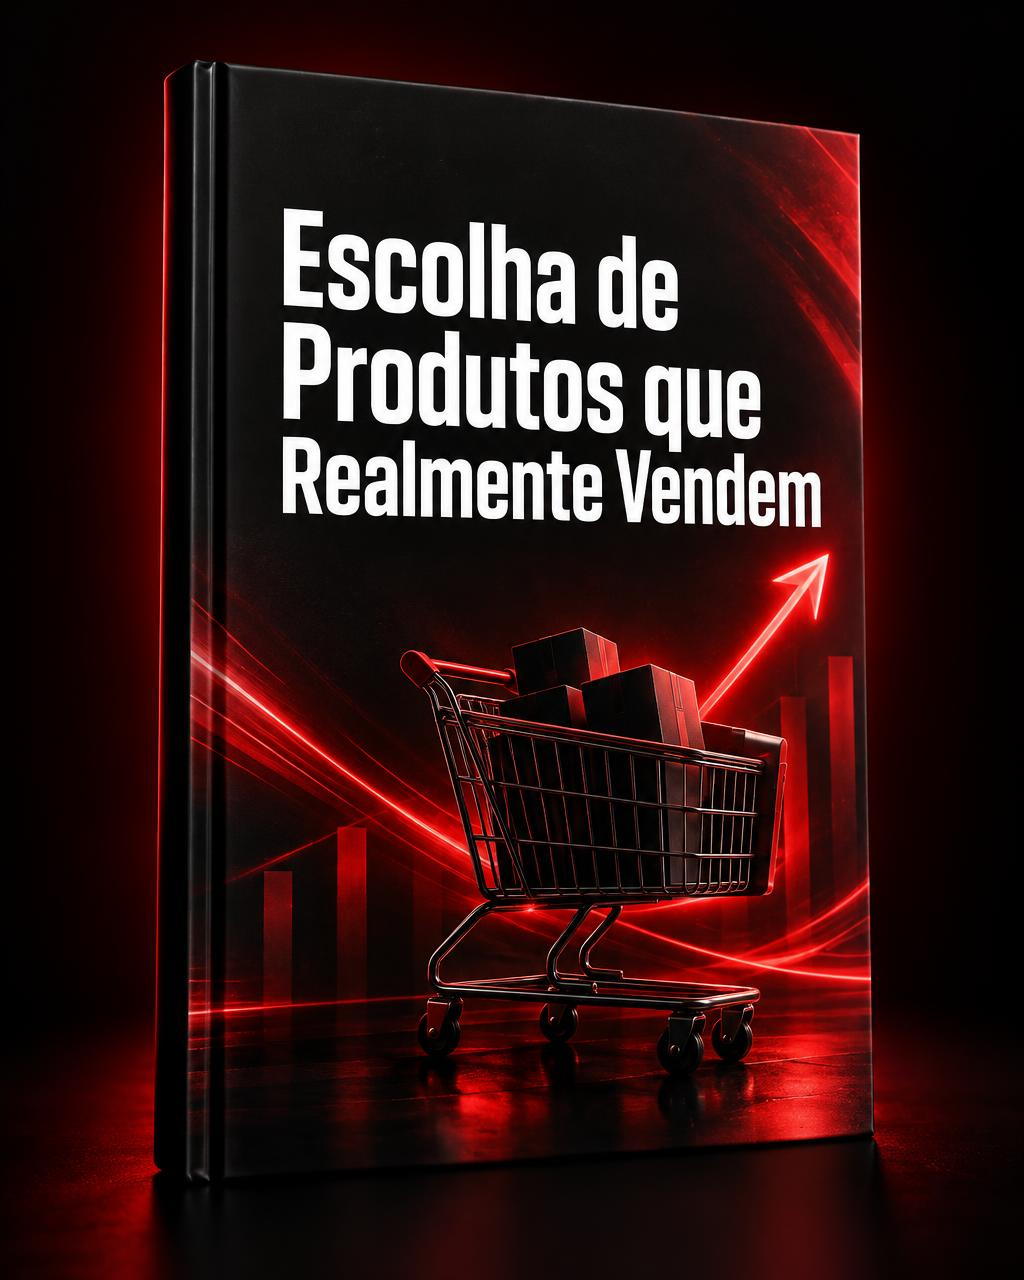
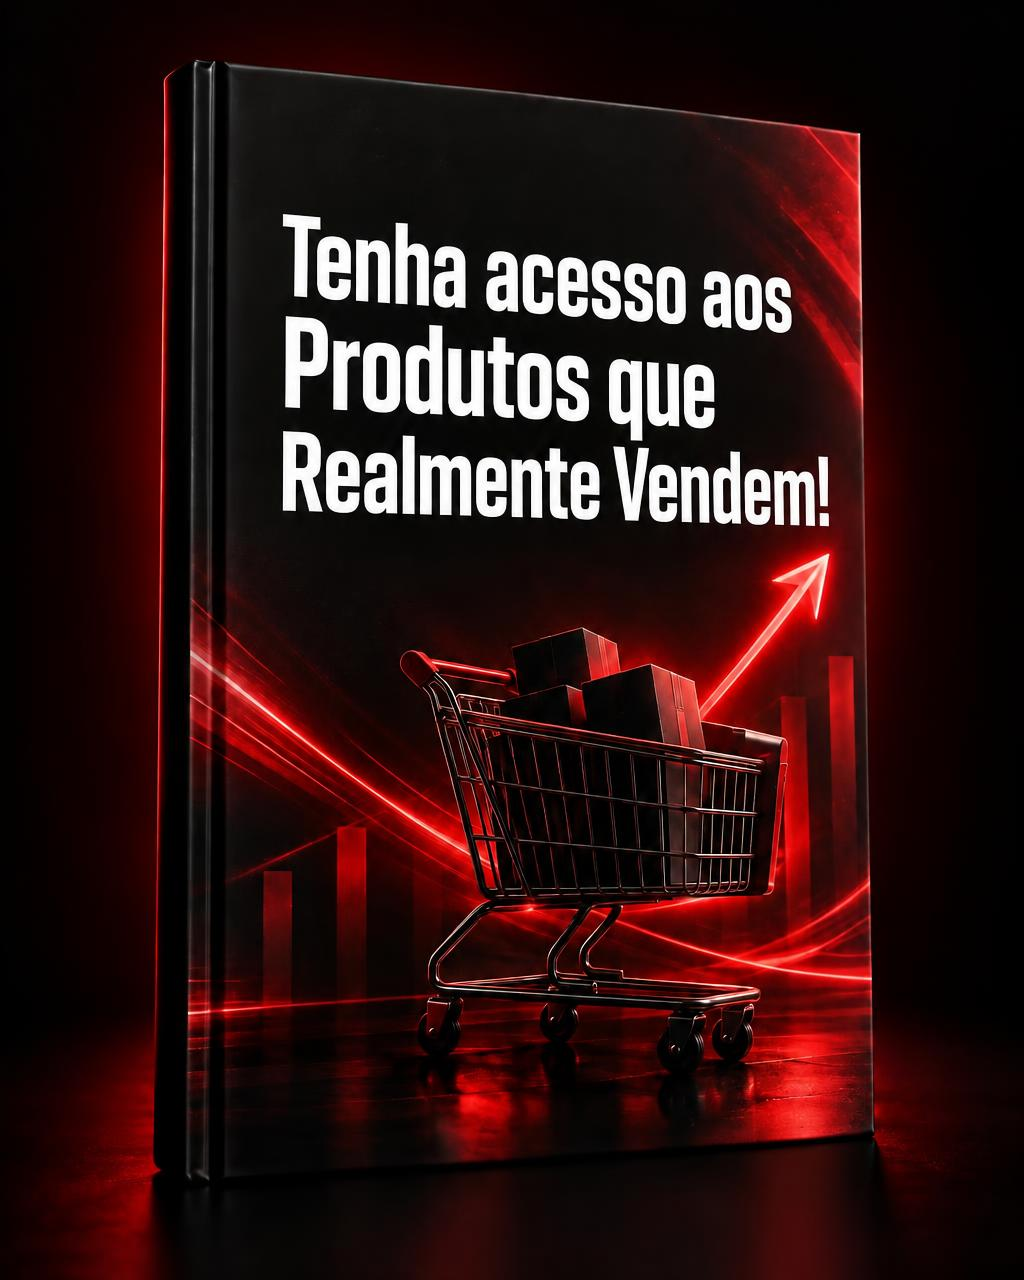
Changes

diff --git a/roadmap.md b/roadmap.md
@@ -1,0 +1,6 @@
+# Roadmap
+
+- [x] Hero headline → "Do Zero à Primeira Venda"
+- [x] Checkout button label → "Quero aprender a ganhar dinheiro agora" (fits phone screens)
+- [ ] Ebook cover title → "Tenha acesso aos Produtos que Realmente Vendem!"
+- [ ] Checkout link: buttons still point to the placeholder in `src/lib/checkout.ts` — waiting for the real link from Luciano
